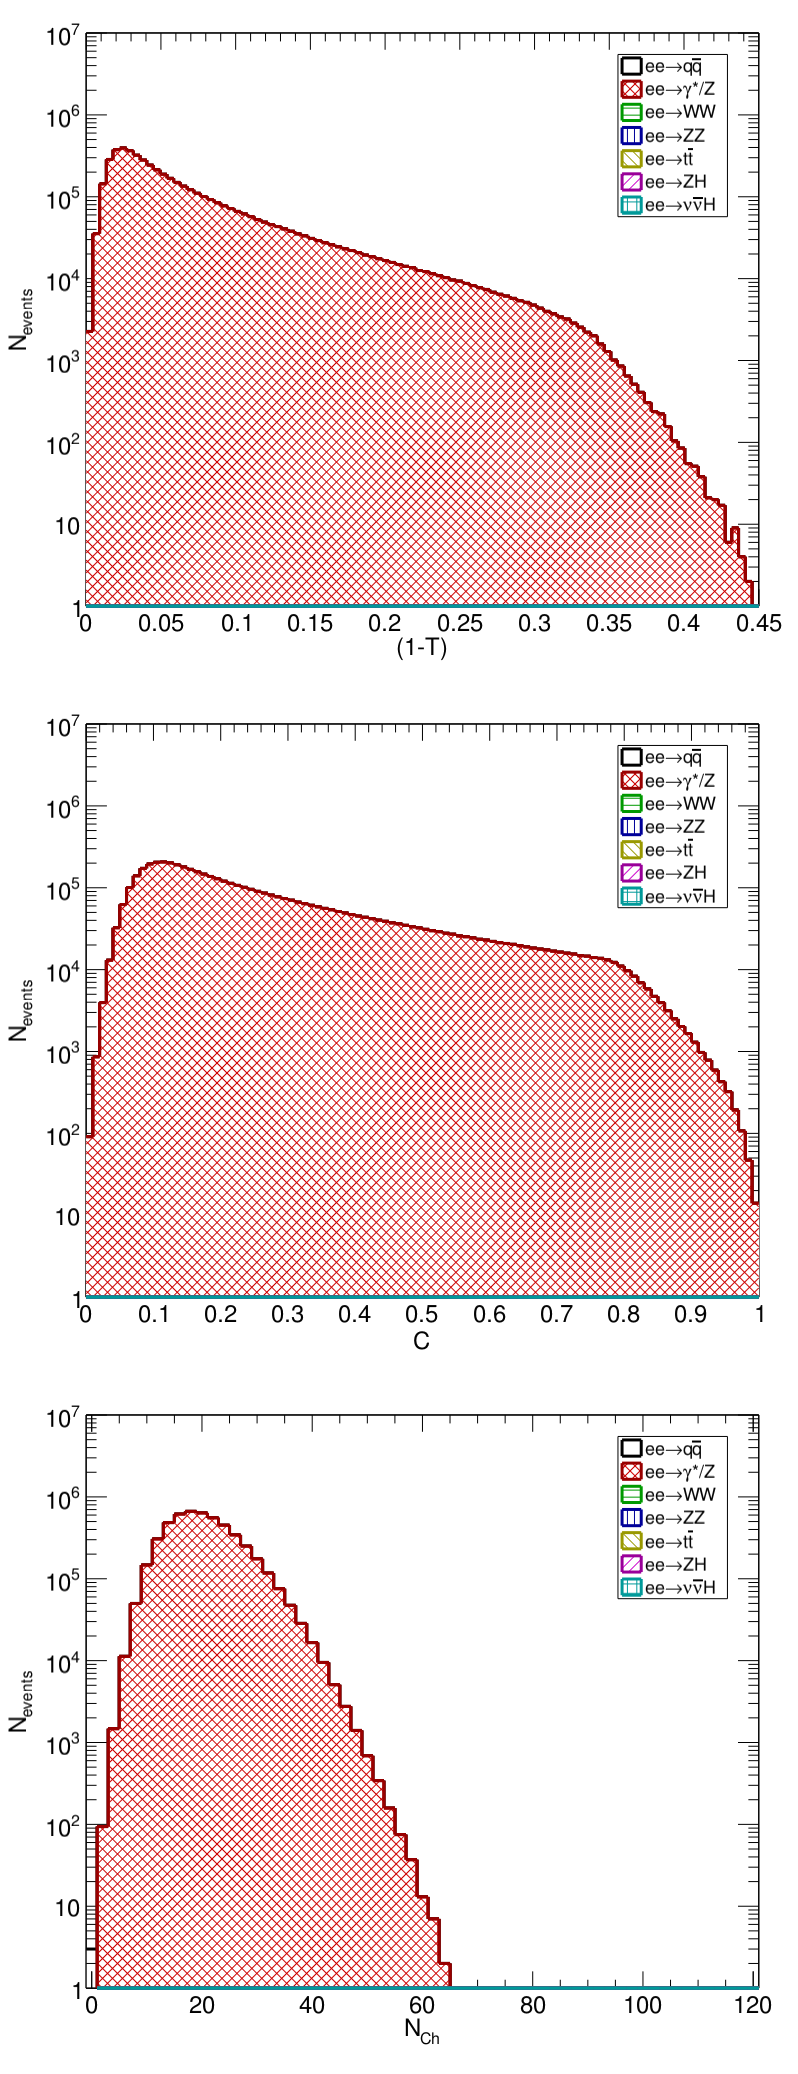
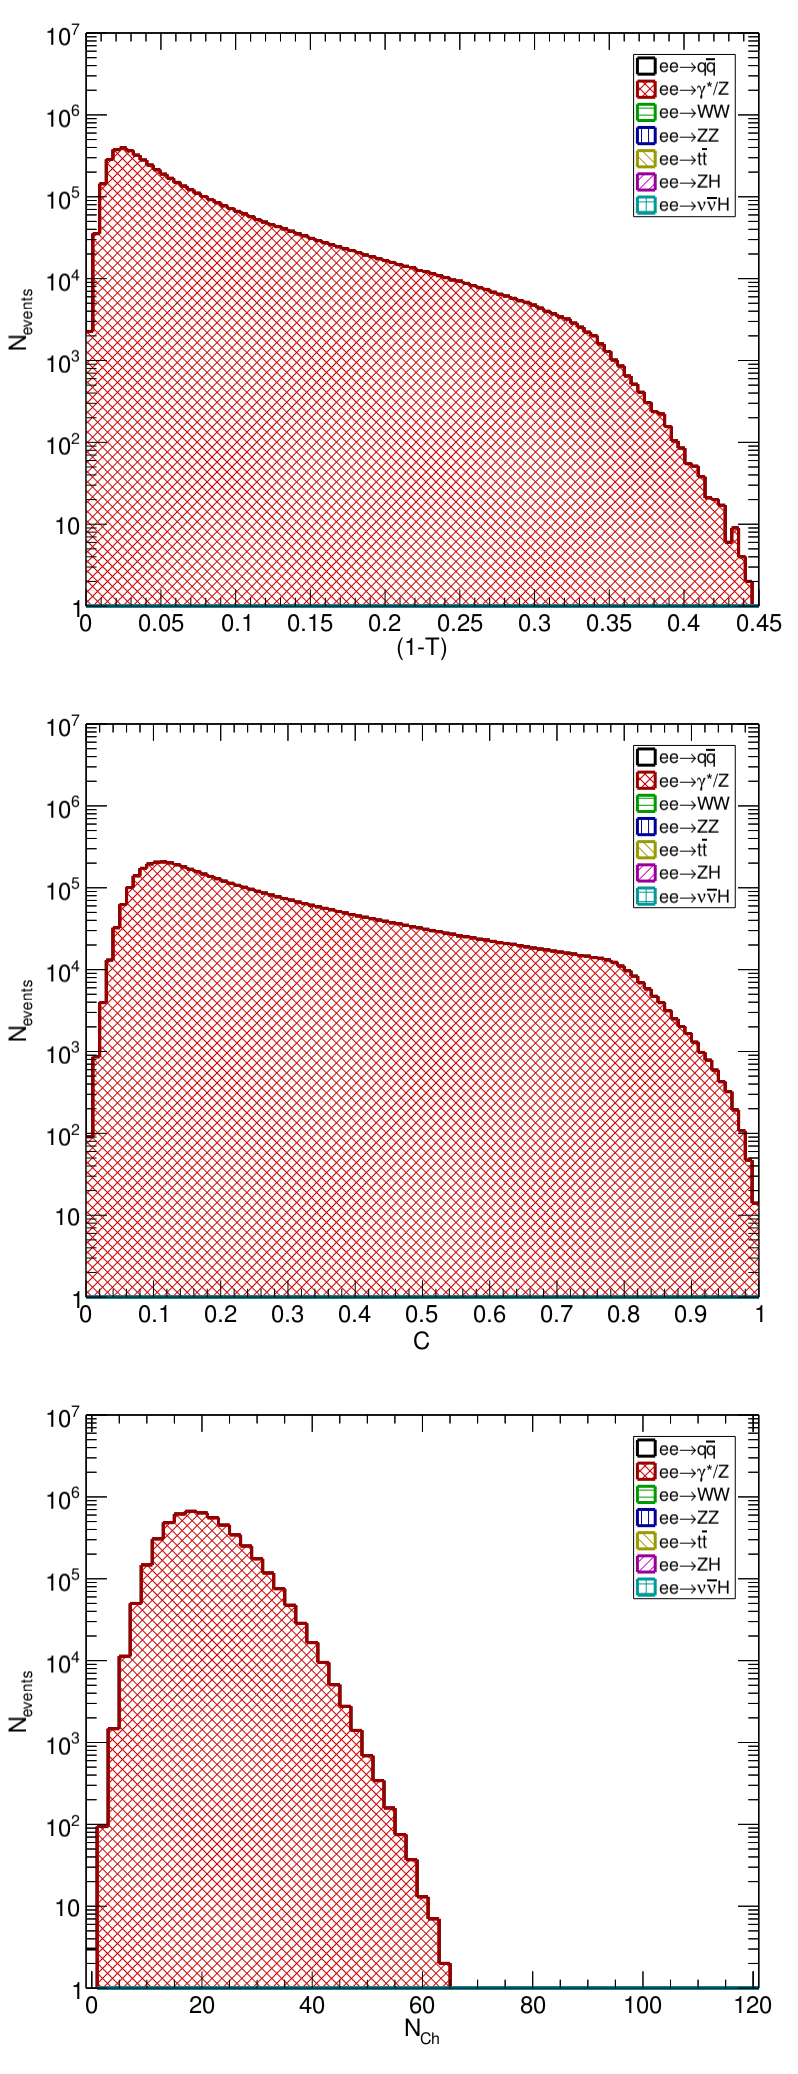
File updates

diff --git a/7-TESLA_500G_Calibration/ImpactofXi.cc b/7-TESLA_500G_Calibration/ImpactofXi.cc
@@ -76,13 +76,13 @@ void ImpactofXi() {
 /////////////////////////////////////////////////////////////////////////////////////////////////////////////	
 
 	TH1F *hist_ZetaChg_912 = (TH1F*)input_912->Get("hist_ZetaChg");
-	hist_ZetaChg_912->SetLineColor(kBlack); hist_ZetaChg_912->SetMarkerColor(kBlack); hist_ZetaChg_912->SetMarkerStyle(53); hist_ZetaChg_912->SetLineWidth(1); hist_ZetaChg_912->SetMarkerSize(1.5);
+	hist_ZetaChg_912->SetLineColor(kBlack); hist_ZetaChg_912->SetMarkerColor(kBlack); hist_ZetaChg_912->SetMarkerStyle(53); hist_ZetaChg_912->SetLineWidth(1); hist_ZetaChg_912->SetMarkerSize(1);
 	TH1F *hist_ZetaChg_160 = (TH1F*)input_160->Get("hist_ZetaChg");
-	hist_ZetaChg_160->SetLineColor(kBlack); hist_ZetaChg_160->SetMarkerColor(kBlack); hist_ZetaChg_160->SetMarkerStyle(54); hist_ZetaChg_160->SetLineWidth(1); hist_ZetaChg_160->SetMarkerSize(1);
+	hist_ZetaChg_160->SetLineColor(kBlack); hist_ZetaChg_160->SetMarkerColor(kBlack); hist_ZetaChg_160->SetMarkerStyle(2); hist_ZetaChg_160->SetLineWidth(1); hist_ZetaChg_160->SetMarkerSize(1);
 	TH1F *hist_ZetaChg_240 = (TH1F*)input_240->Get("hist_ZetaChg");
-	hist_ZetaChg_240->SetLineColor(kBlack); hist_ZetaChg_240->SetMarkerColor(kBlack); hist_ZetaChg_240->SetMarkerStyle(55); hist_ZetaChg_240->SetLineWidth(1); hist_ZetaChg_240->SetMarkerSize(1);
+	hist_ZetaChg_240->SetLineColor(kBlack); hist_ZetaChg_240->SetMarkerColor(kBlack); hist_ZetaChg_240->SetMarkerStyle(3); hist_ZetaChg_240->SetLineWidth(1); hist_ZetaChg_240->SetMarkerSize(1);
 	TH1F *hist_ZetaChg_365 = (TH1F*)input_365->Get("hist_ZetaChg");
-	hist_ZetaChg_365->SetLineColor(kBlack); hist_ZetaChg_365->SetMarkerColor(kBlack); hist_ZetaChg_365->SetMarkerStyle(59); hist_ZetaChg_365->SetLineWidth(1); hist_ZetaChg_365->SetMarkerSize(1.5);
+	hist_ZetaChg_365->SetLineColor(kBlack); hist_ZetaChg_365->SetMarkerColor(kBlack); hist_ZetaChg_365->SetMarkerStyle(5); hist_ZetaChg_365->SetLineWidth(1); hist_ZetaChg_365->SetMarkerSize(1);
 
 	TH1F *hist_ZetaAll_912 = (TH1F*)input_912->Get("hist_ZetaAll");
 	hist_ZetaAll_912->SetLineColor(kBlue+2); hist_ZetaAll_912->SetMarkerColor(kBlue+2); hist_ZetaAll_912->SetMarkerStyle(53); hist_ZetaAll_912->SetLineWidth(2); hist_ZetaAll_912->SetMarkerSize(1);
@@ -314,54 +314,54 @@ void ImpactofXi() {
 
 /////////////////////////////////////////////////////////////////////////////////////////////////////////////
 
-	// Create canvas
-	TCanvas* cv5 = new TCanvas("cv5", "FCC-ee ISR Studies", 800, 850);
+	// // Create canvas
+	// TCanvas* cv5 = new TCanvas("cv5", "FCC-ee ISR Studies", 800, 850);
 
-	// Add legend
-	TLegend *lg4 = new TLegend(0.72, 0.16, 0.90, 0.35);
-	lg4->AddEntry(grph_ZetaAvg_Pythi, "PYTHIA", "P");
-	lg4->AddEntry(grph_ZetaAvg_ExALP, "ALEPH", "P");
-	lg4->AddEntry(grph_ZetaAvg_ExLL3, "L3", "P");
-	lg4->AddEntry(grph_ZetaAvg_ExTAS, "TASSO", "P");
-	lg4->AddEntry(grph_ZetaAvg_QCD, "MLLA", "L");
-	lg4->SetTextSize(0.04);
+	// // Add legend
+	// TLegend *lg4 = new TLegend(0.72, 0.16, 0.90, 0.35);
+	// lg4->AddEntry(grph_ZetaAvg_Pythi, "PYTHIA", "P");
+	// lg4->AddEntry(grph_ZetaAvg_ExALP, "ALEPH", "P");
+	// lg4->AddEntry(grph_ZetaAvg_ExLL3, "L3", "P");
+	// lg4->AddEntry(grph_ZetaAvg_ExTAS, "TASSO", "P");
+	// lg4->AddEntry(grph_ZetaAvg_QCD, "MLLA", "L");
+	// lg4->SetTextSize(0.04);
 
-	// Beautify
-	gStyle->SetLabelSize(0.05, "X");
-	gStyle->SetLabelSize(0.05, "Y");
-	gStyle->SetTitleSize(0.06, "X");
-	gStyle->SetTitleSize(0.06, "Y");
-	cv5->SetMargin(0, 0, 0, 0);
-	gPad->SetTopMargin(0.025);
-	gPad->SetBottomMargin(0.09);
-	gPad->SetLeftMargin(0.12);
-	gPad->SetRightMargin(0.05);
-	gPad->SetTickx(); gPad->SetTicky();
+	// // Beautify
+	// gStyle->SetLabelSize(0.05, "X");
+	// gStyle->SetLabelSize(0.05, "Y");
+	// gStyle->SetTitleSize(0.06, "X");
+	// gStyle->SetTitleSize(0.06, "Y");
+	// cv5->SetMargin(0, 0, 0, 0);
+	// gPad->SetTopMargin(0.025);
+	// gPad->SetBottomMargin(0.09);
+	// gPad->SetLeftMargin(0.12);
+	// gPad->SetRightMargin(0.05);
+	// gPad->SetTickx(); gPad->SetTicky();
 
-	// Beautify
-	grph_ZetaAvg_Pythi->GetXaxis()->CenterTitle(); grph_ZetaAvg_Pythi->GetYaxis()->CenterTitle();
-	grph_ZetaAvg_Pythi->GetXaxis()->SetLabelSize(0.04); grph_ZetaAvg_Pythi->GetXaxis()->SetTitleSize(0.04);
-	grph_ZetaAvg_Pythi->GetYaxis()->SetLabelSize(0.04); grph_ZetaAvg_Pythi->GetYaxis()->SetTitleSize(0.04);
-	grph_ZetaAvg_Pythi->SetTitle("");
-	grph_ZetaAvg_Pythi->GetYaxis()->SetTitle("#xi*");
-	grph_ZetaAvg_Pythi->GetXaxis()->SetTitle("#sqrt{s} (GeV)");
+	// // Beautify
+	// grph_ZetaAvg_Pythi->GetXaxis()->CenterTitle(); grph_ZetaAvg_Pythi->GetYaxis()->CenterTitle();
+	// grph_ZetaAvg_Pythi->GetXaxis()->SetLabelSize(0.04); grph_ZetaAvg_Pythi->GetXaxis()->SetTitleSize(0.04);
+	// grph_ZetaAvg_Pythi->GetYaxis()->SetLabelSize(0.04); grph_ZetaAvg_Pythi->GetYaxis()->SetTitleSize(0.04);
+	// grph_ZetaAvg_Pythi->SetTitle("");
+	// grph_ZetaAvg_Pythi->GetYaxis()->SetTitle("#xi*");
+	// grph_ZetaAvg_Pythi->GetXaxis()->SetTitle("#sqrt{s} (GeV)");
 
-	// Draw
-	grph_ZetaAvg_Pythi->Draw("AP");
-	grph_ZetaAvg_QCD_band->Draw("3 SAME");
-	grph_ZetaAvg_QCD->Draw("L SAME");
-	grph_ZetaAvg_Pythi->Draw("P SAME");
-	grph_ZetaAvg_ExALP->Draw("PE SAME");
-	grph_ZetaAvg_ExLL3->Draw("PE SAME");
-	grph_ZetaAvg_ExTAS->Draw("PE SAME");
-	lg4->Draw("SAME");
+	// // Draw
+	// grph_ZetaAvg_Pythi->Draw("AP");
+	// grph_ZetaAvg_QCD_band->Draw("3 SAME");
+	// grph_ZetaAvg_QCD->Draw("L SAME");
+	// grph_ZetaAvg_Pythi->Draw("P SAME");
+	// grph_ZetaAvg_ExALP->Draw("PE SAME");
+	// grph_ZetaAvg_ExLL3->Draw("PE SAME");
+	// grph_ZetaAvg_ExTAS->Draw("PE SAME");
+	// lg4->Draw("SAME");
 
-	// Set limits
-	grph_ZetaAvg_Pythi->GetYaxis()->SetRangeUser(2,5);
-	grph_ZetaAvg_Pythi->GetXaxis()->SetLimits(0, 400);
+	// // Set limits
+	// grph_ZetaAvg_Pythi->GetYaxis()->SetRangeUser(2,5);
+	// grph_ZetaAvg_Pythi->GetXaxis()->SetLimits(0, 400);
 
-	// Update canvas
-	cv5->Modified();
+	// // Update canvas
+	// cv5->Modified();
 
 /////////////////////////////////////////////////////////////////////////////////////////////////////////////
 // Print results

diff --git a/7-TESLA_500G_Calibration/ImpactofHad.cc b/7-TESLA_500G_Calibration/ImpactofHad.cc
@@ -38,7 +38,7 @@ void ImpactofHad() {
 // Reading ROOTS
 /////////////////////////////////////////////////////////////////////////////////////////////////////////////
 
-	TFile *input = new TFile("5-CutData/cut_FCC365.root", "READ");
+	TFile *input = new TFile("5-CutData/cut_FCC912.root", "READ");
 
 /////////////////////////////////////////////////////////////////////////////////////////////////////////////
 // Reading Pythia histograms from ROOT files
@@ -270,7 +270,7 @@ void ImpactofHad() {
 	h7->Draw("HIST SAME");
 
 	// Add legend
-	TLegend* lg2 = new TLegend(0.78, 0.70, 0.92, 0.95);
+	TLegend* lg2 = new TLegend(0.80, 0.70, 0.93, 0.95);
 	lg2->AddEntry(h1, "ee#rightarrowq#bar{q}", "F");
 	lg2->AddEntry(h2, "ee#rightarrow#gamma*/Z", "F");
 	lg2->AddEntry(h3, "ee#rightarrowWW", "F");
@@ -280,6 +280,7 @@ void ImpactofHad() {
 	lg2->AddEntry(h7, "ee#rightarrow#nu#bar{#nu}H", "F");
 	lg2->SetTextSize(0.03);
 	lg2->Draw("SAME");
+	gPad->RedrawAxis();
 
 	cv2->cd(2);
 	hist_CprPyth_al->SetFillColor(10);
@@ -339,6 +340,7 @@ void ImpactofHad() {
 	h71->Draw("HIST SAME");
 
 	lg2->Draw("SAME");
+	gPad->RedrawAxis();
 
 	cv2->cd(3);
 	hist_nHadChg_al->SetFillColor(10);
@@ -398,6 +400,7 @@ void ImpactofHad() {
 	h72->Draw("HIST SAME");
 
 	lg2->Draw("SAME");
+	gPad->RedrawAxis();
 
 	// Set limits
 	hist_ThrPyth_al->GetYaxis()->SetRangeUser(1E0,1E7);
@@ -411,5 +414,6 @@ void ImpactofHad() {
 	gStyle->SetOptStat();
 	// Update canvas
 	cv2->Modified();
+	
 	
 }
